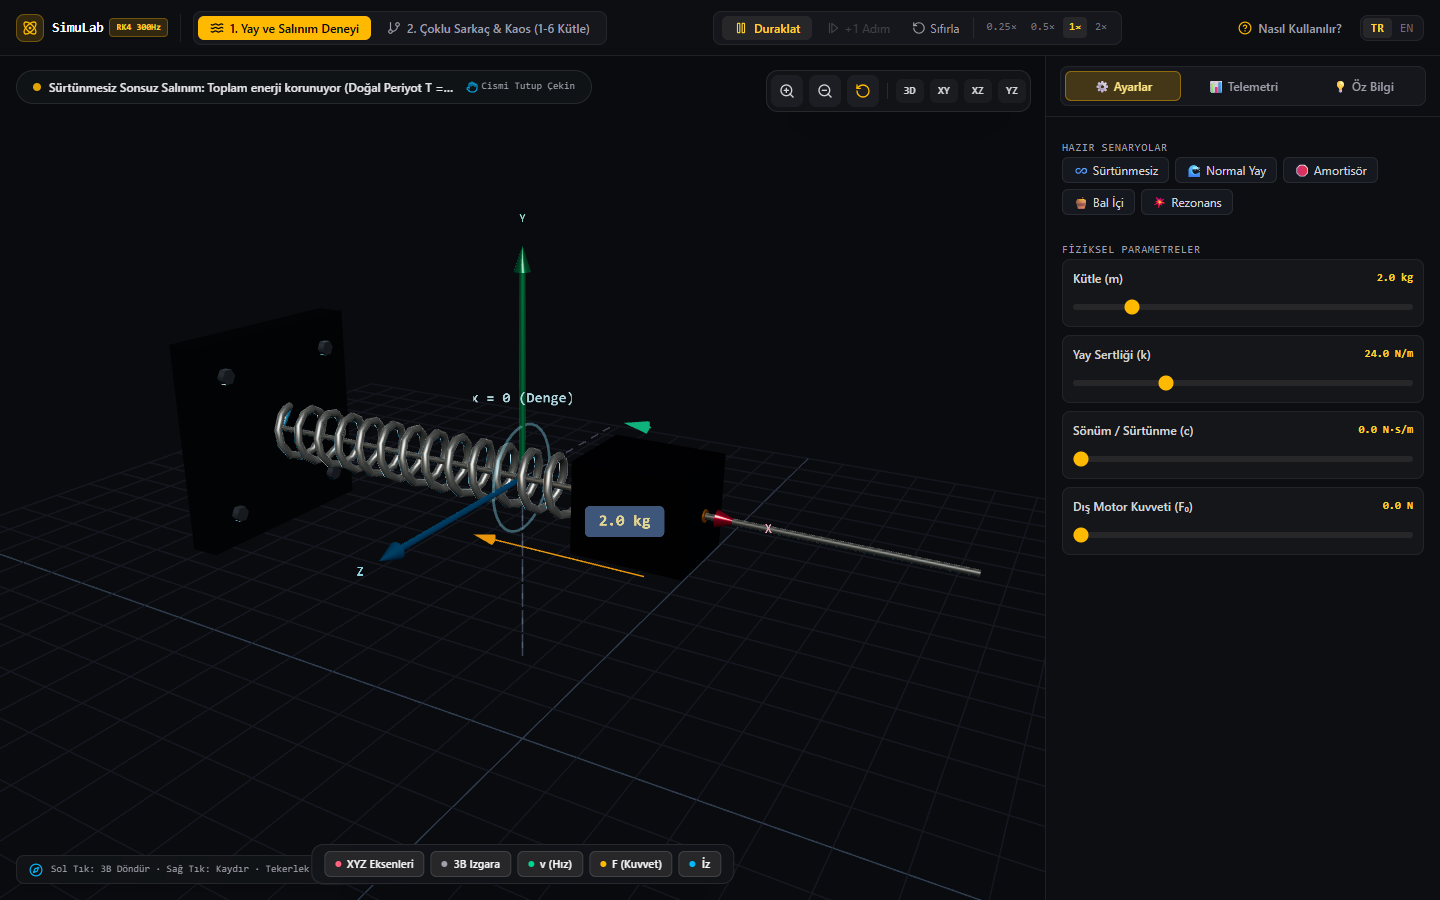
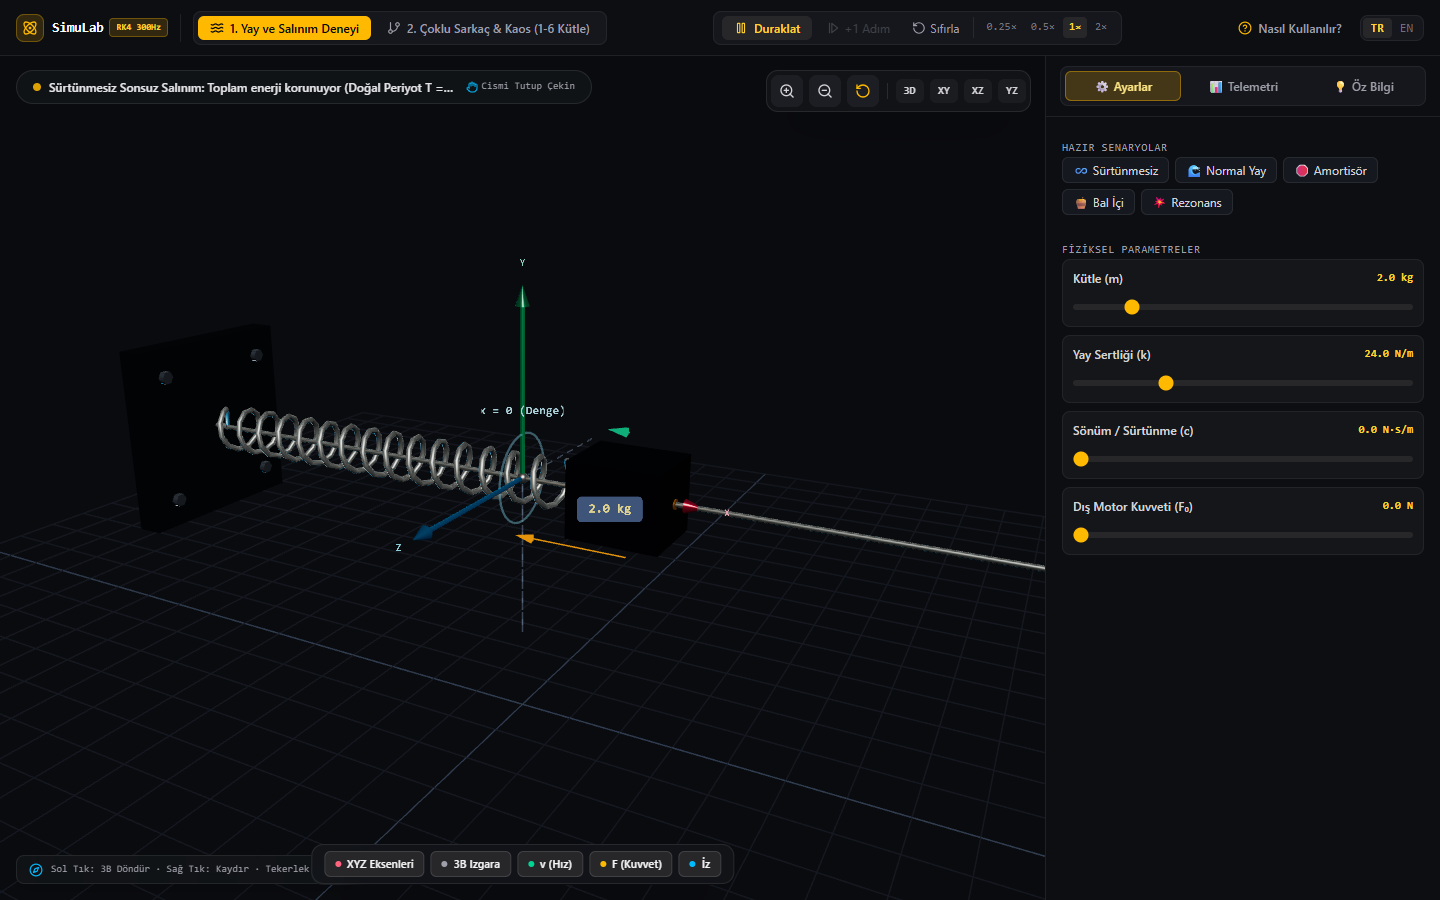
feat: expand 3D spring stretch range to +6.5m and compression to -5.5m with elastic bumper and extended rail

diff --git a/src/components/PhysicsViewport.tsx b/src/components/PhysicsViewport.tsx
@@ -227,7 +227,7 @@ export const PhysicsViewport: React.FC<PhysicsViewportProps> = ({
     // 2. Camera - Default Angled 3D Isometric View
     const camera = new THREE.PerspectiveCamera(45, width / height, 0.1, 100);
     const isPend = moduleIdRef.current === "pendulum";
-    camera.position.set(isPend ? 5.5 : 7.2, isPend ? 3.2 : 5.2, isPend ? 14.5 : 12.0);
+    camera.position.set(isPend ? 5.5 : 8.2, isPend ? 3.2 : 5.6, isPend ? 14.5 : 14.8);
     cameraRef.current = camera;
 
     // 3. Renderer (appended dynamically)
@@ -406,16 +406,16 @@ export const PhysicsViewport: React.FC<PhysicsViewportProps> = ({
     scene.add(oscGroup);
     oscillatorGroupRef.current = oscGroup;
 
-    // Wall Mount at x = -5.0
+    // Wall Mount at x = -7.5
     const wallBase = new THREE.Mesh(
-      new THREE.BoxGeometry(0.5, 3.4, 3.4),
+      new THREE.BoxGeometry(0.5, 3.6, 3.6),
       new THREE.MeshStandardMaterial({
         color: 0x1e242d,
         metalness: 0.65,
         roughness: 0.35,
       })
     );
-    wallBase.position.set(-5.0, 0, 0);
+    wallBase.position.set(-7.5, 0, 0);
     oscGroup.add(wallBase);
 
     // 4 Hex Bolts on Wall
@@ -425,23 +425,23 @@ export const PhysicsViewport: React.FC<PhysicsViewportProps> = ({
       roughness: 0.2,
     });
     [
-      [-1.15, -1.15],
-      [-1.15, 1.15],
-      [1.15, -1.15],
-      [1.15, 1.15],
+      [-1.25, -1.25],
+      [-1.25, 1.25],
+      [1.25, -1.25],
+      [1.25, 1.25],
     ].forEach(([by, bz]) => {
       const bolt = new THREE.Mesh(
         new THREE.CylinderGeometry(0.13, 0.13, 0.18, 6),
         boltMat
       );
       bolt.rotation.z = Math.PI / 2;
-      bolt.position.set(-4.72, by, bz);
+      bolt.position.set(-7.22, by, bz);
       oscGroup.add(bolt);
     });
 
     // Horizontal Guide Rail (Chrome rod along X)
     const rail = new THREE.Mesh(
-      new THREE.CylinderGeometry(0.045, 0.045, 11.5, 16),
+      new THREE.CylinderGeometry(0.045, 0.045, 17.5, 16),
       new THREE.MeshStandardMaterial({
         color: 0xcfd8dc,
         metalness: 0.95,
@@ -502,8 +502,8 @@ export const PhysicsViewport: React.FC<PhysicsViewportProps> = ({
     massMesh.add(massSprite);
 
     // 3D Spring Tube
-    const initialCurve = new HelixCurve(-4.75, 1.2, 0.42, 13);
-    const springGeom = new THREE.TubeGeometry(initialCurve, 140, 0.065, 10, false);
+    const initialCurve = new HelixCurve(-7.2, 1.2, 0.42, 15);
+    const springGeom = new THREE.TubeGeometry(initialCurve, 160, 0.055, 10, false);
     const springMat = new THREE.MeshStandardMaterial({
       color: 0xcfd8dc,
       metalness: 0.9,
@@ -670,7 +670,7 @@ export const PhysicsViewport: React.FC<PhysicsViewportProps> = ({
               denom;
             xProj = ray.origin.x + sStar * ray.direction.x;
           }
-          const clampedX = Math.max(-3.5, Math.min(3.5, xProj));
+          const clampedX = Math.max(-5.5, Math.min(6.5, xProj));
           onOscDragRef.current(clampedX);
         } else if (activeDrag.startsWith("pend-bob:")) {
           const bobIndex = parseInt(activeDrag.split(":")[1], 10);
@@ -812,7 +812,7 @@ export const PhysicsViewport: React.FC<PhysicsViewportProps> = ({
     const controls = controlsRef.current;
     if (camera && controls) {
       if (moduleId === "oscillator") {
-        targetCamPosRef.current = new THREE.Vector3(7.2, 5.2, 12.0);
+        targetCamPosRef.current = new THREE.Vector3(8.2, 5.6, 14.8);
         targetCamLookRef.current = new THREE.Vector3(0, 0, 0);
       } else {
         targetCamPosRef.current = new THREE.Vector3(5.5, 3.2, 14.5);
@@ -841,13 +841,13 @@ export const PhysicsViewport: React.FC<PhysicsViewportProps> = ({
 
     if (springMesh) {
       // Re-generate tube geometry along dynamic helix
-      const startX = -4.75;
-      const endX = blockX - 0.78 * (massMesh?.scale.x || 1.0);
+      const startX = -7.2;
+      const endX = blockX - 0.825 * (massMesh?.scale.x || 1.0);
       springMesh.geometry.dispose();
       springMesh.geometry = new THREE.TubeGeometry(
-        new HelixCurve(startX, endX, 0.42, 13),
-        140,
-        0.065,
+        new HelixCurve(startX, endX, 0.42, 15),
+        160,
+        0.055,
         10,
         false
       );
@@ -860,7 +860,7 @@ export const PhysicsViewport: React.FC<PhysicsViewportProps> = ({
       velArrow.setDirection(new THREE.Vector3(dir, 0, 0));
       velArrow.position.set(blockX, 1.1, 0);
       velArrow.setLength(
-        Math.min(3.5, Math.max(0.4, Math.abs(oscState.v) * 0.45)),
+        Math.min(4.0, Math.max(0.4, Math.abs(oscState.v) * 0.28)),
         0.35,
         0.18
       );
@@ -877,7 +877,7 @@ export const PhysicsViewport: React.FC<PhysicsViewportProps> = ({
       forceArrow.setDirection(new THREE.Vector3(fDir, 0, 0));
       forceArrow.position.set(blockX, -1.1, 0);
       forceArrow.setLength(
-        Math.min(3.8, Math.max(0.4, Math.abs(netForce) * 0.06)),
+        Math.min(4.2, Math.max(0.4, Math.abs(netForce) * 0.045)),
         0.35,
         0.18
       );
@@ -1173,7 +1173,7 @@ export const PhysicsViewport: React.FC<PhysicsViewportProps> = ({
 
   const handleResetCamera = () => {
     if (moduleId === "oscillator") {
-      targetCamPosRef.current = new THREE.Vector3(7.2, 5.2, 12.0);
+      targetCamPosRef.current = new THREE.Vector3(8.2, 5.6, 14.8);
       targetCamLookRef.current = new THREE.Vector3(0, 0, 0);
     } else {
       targetCamPosRef.current = new THREE.Vector3(5.5, 3.2, 14.5);

diff --git a/src/engine/physicsModules.ts b/src/engine/physicsModules.ts
@@ -142,7 +142,16 @@ export function stepOscillatorRK4(
     const fDrive = params.driveAmp * Math.cos(params.driveFreq * t);
     const fSpring = -params.stiffness * x;
     const fDamper = -params.damping * v;
-    const a = (fDrive + fSpring + fDamper) / params.mass;
+
+    // Elastic bumper stop at solid compression limit (wall is at x = -7.5)
+    let fBumper = 0;
+    const compressionLimit = -6.2;
+    if (x < compressionLimit) {
+      const penetration = compressionLimit - x;
+      fBumper = 600 * penetration;
+    }
+
+    const a = (fDrive + fSpring + fDamper + fBumper) / params.mass;
     const dThermal = params.damping * v * v;
     return [v, a, dThermal];
   };
